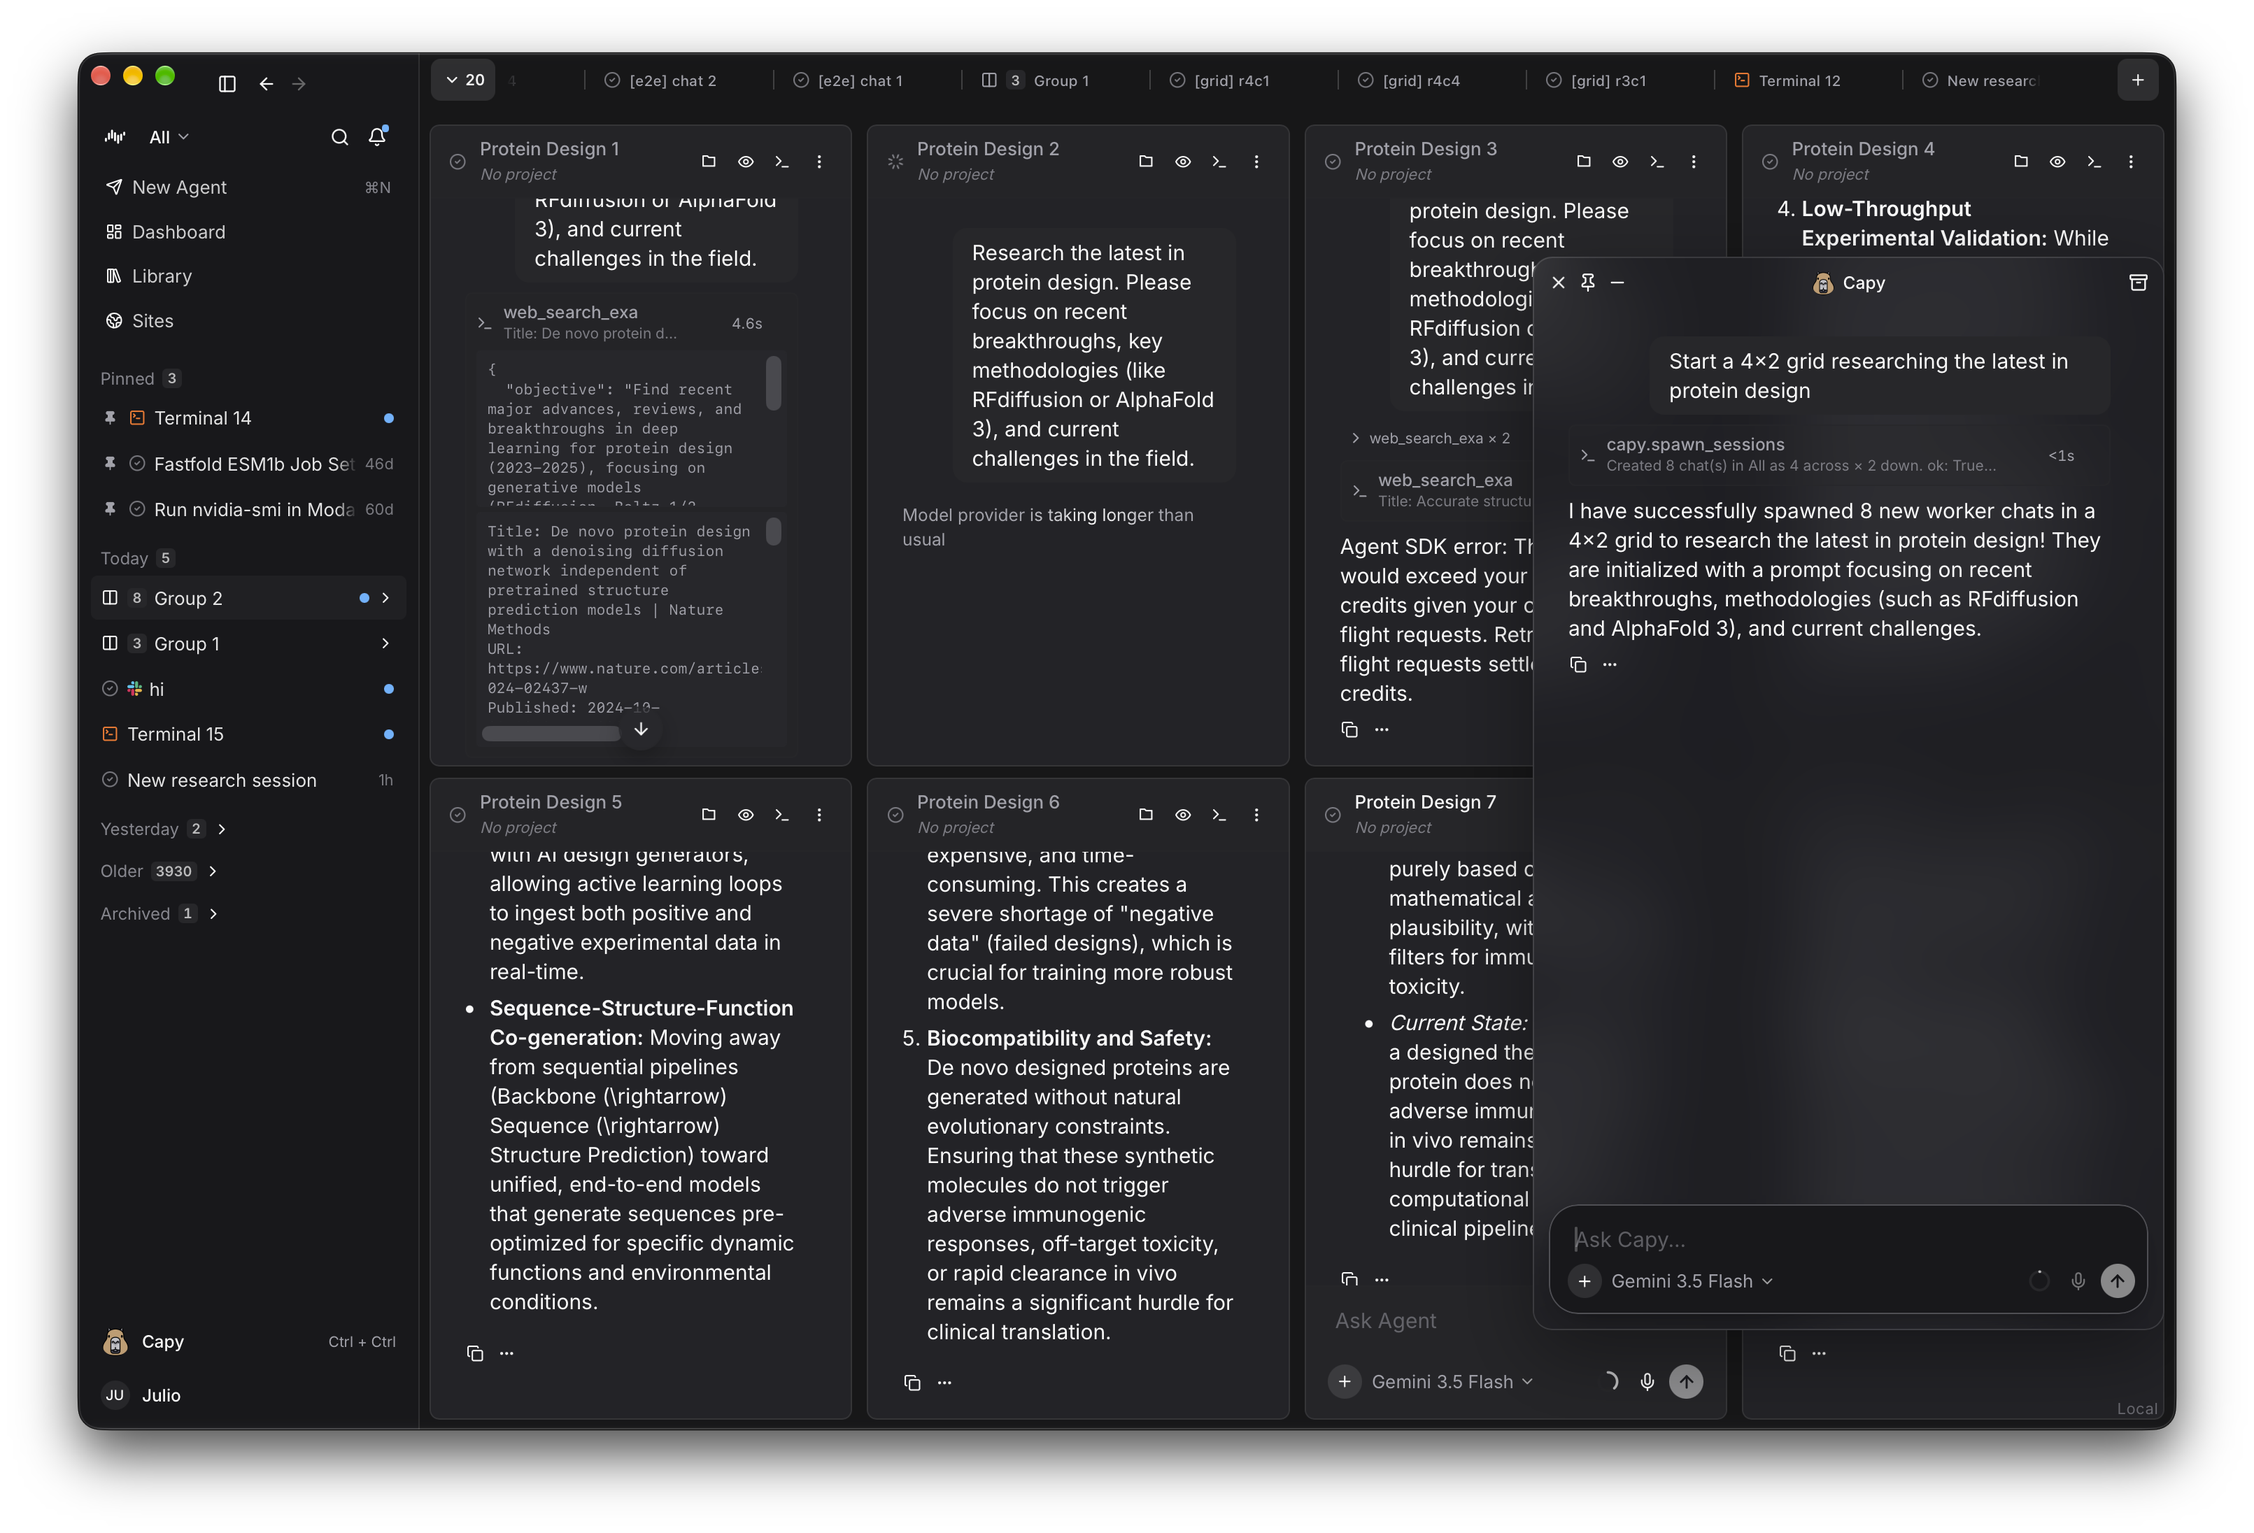
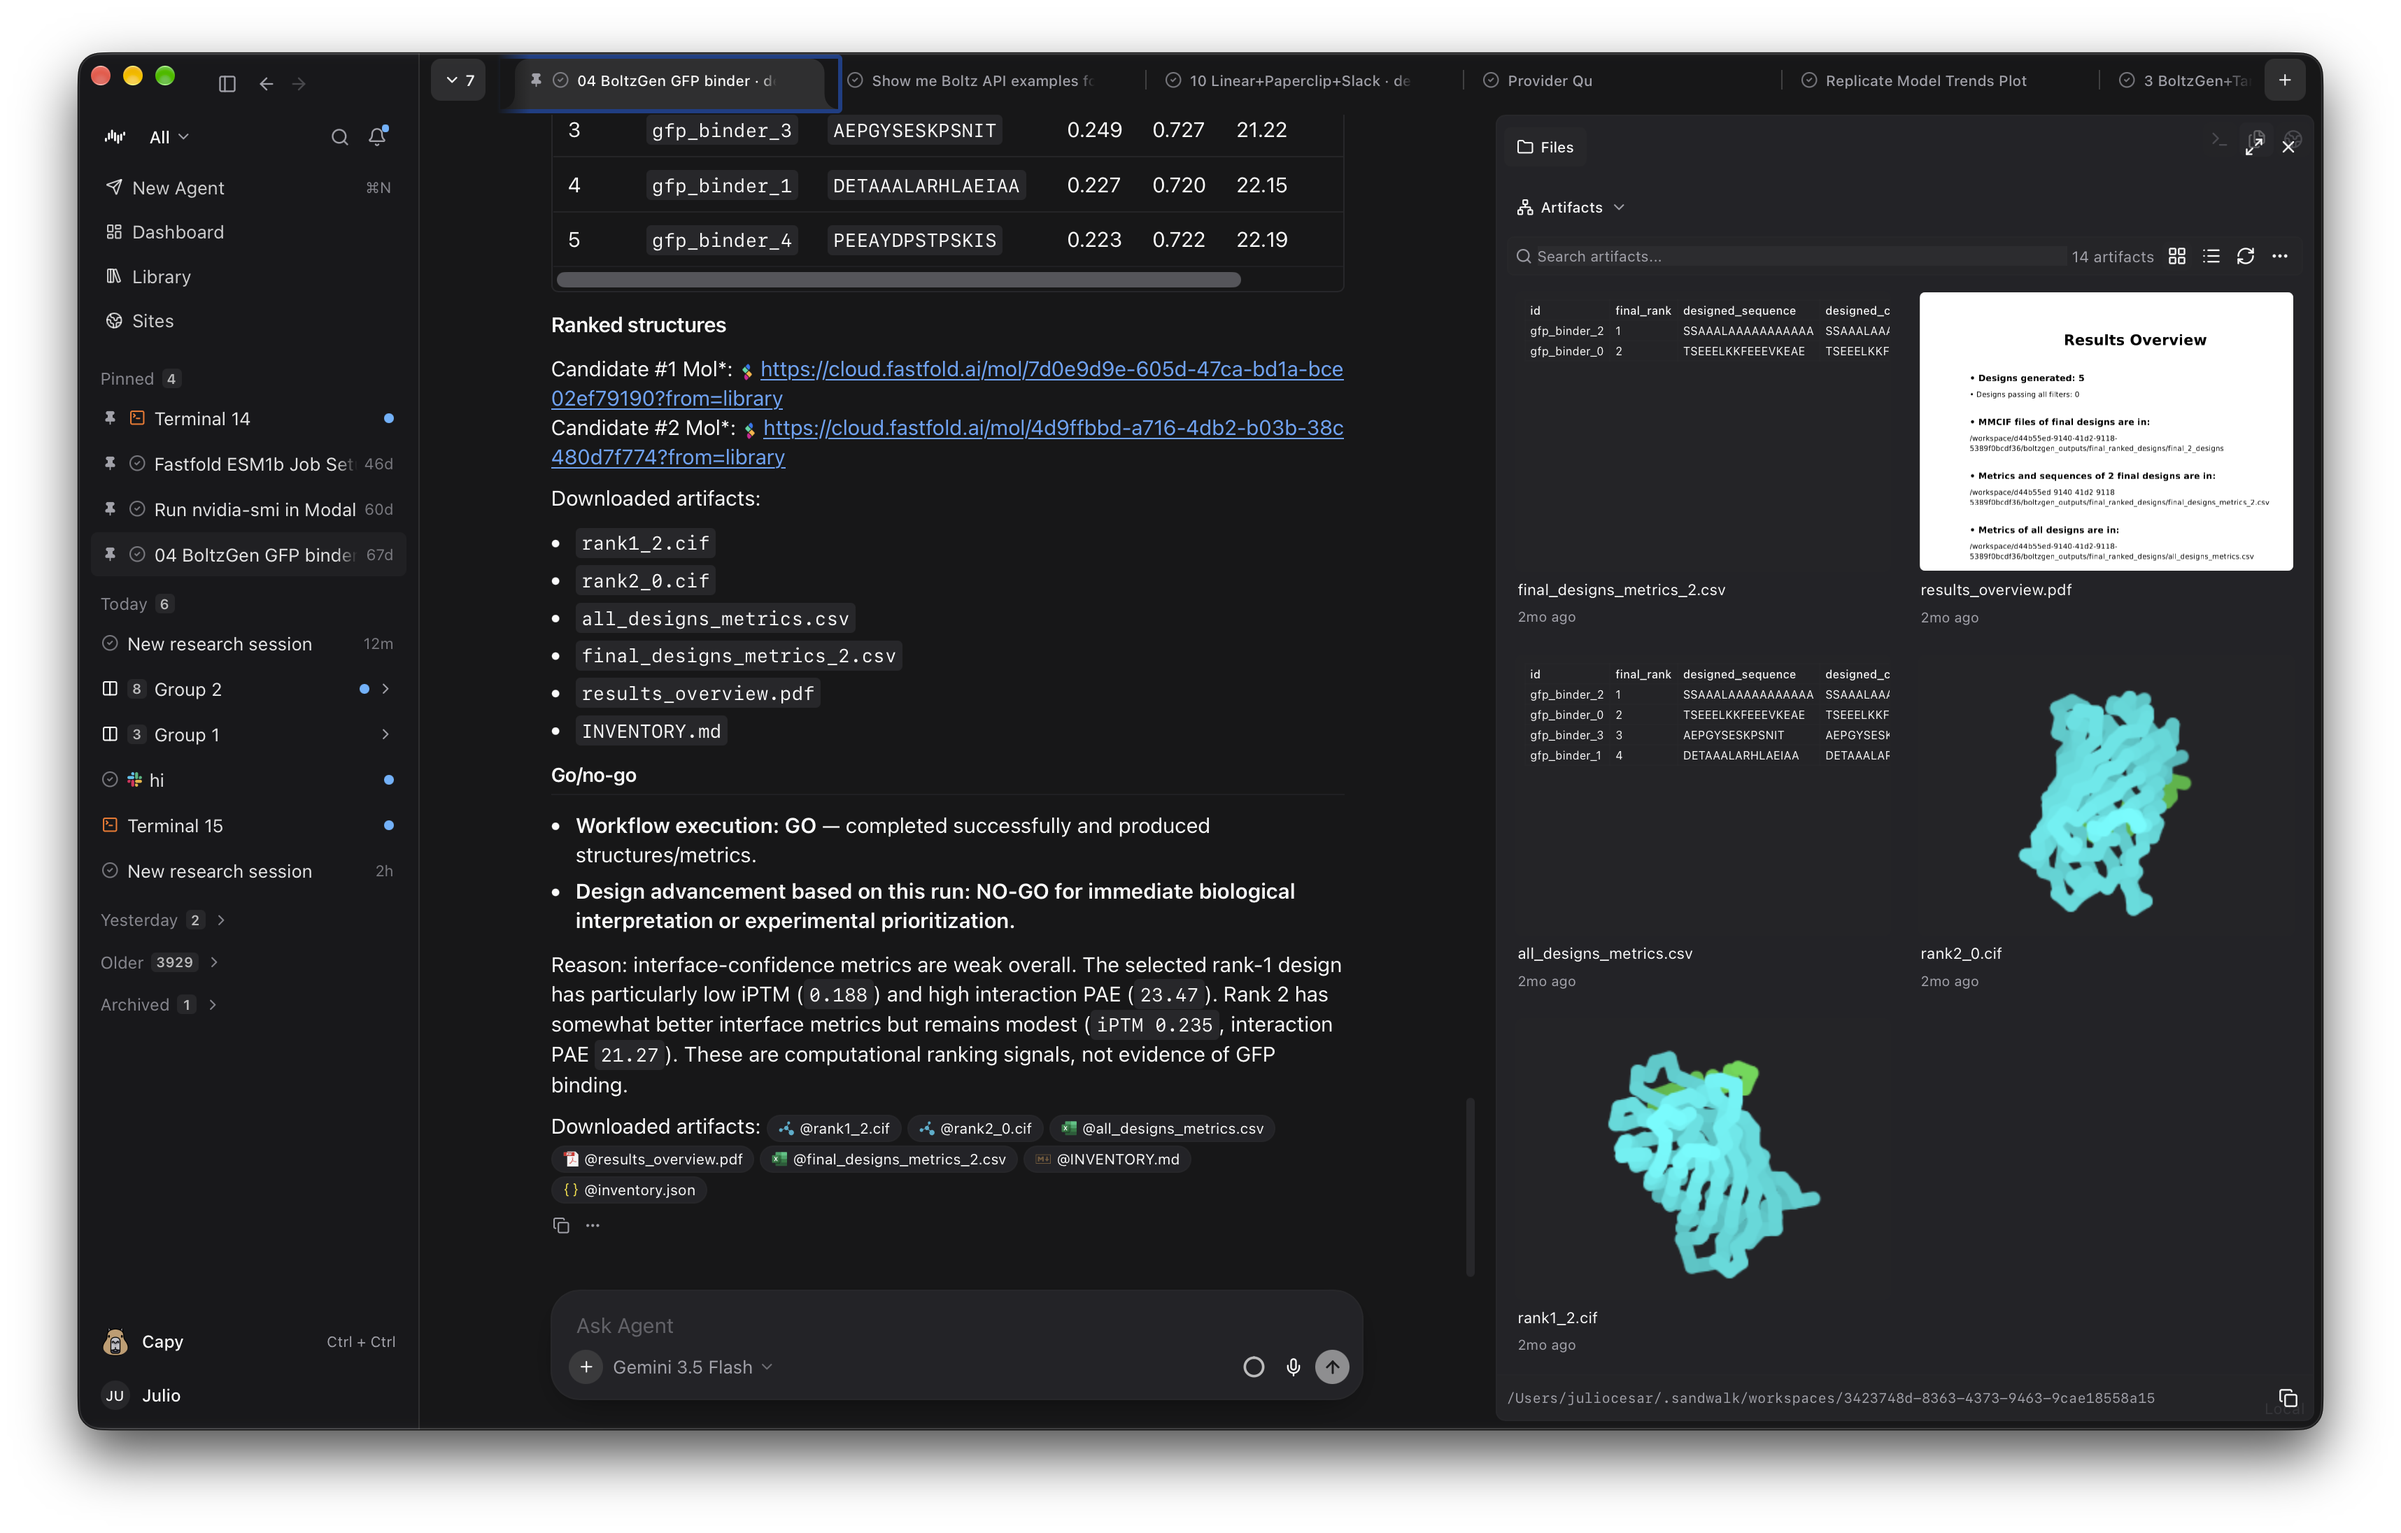
docs: caption each README screenshot from what it shows
The 4x2 grid was filed under Structures and the binder run under a duplicate name. Every section now describes its own image.

diff --git a/README.md b/README.md
@@ -24,12 +24,6 @@
 
 > Sandwalk is an open, self-hosted agent you run on your own compute. Direct it toward hard scientific research, or any ambitious work. Chat, CLI, and the macOS app share the same sessions. Leave one running on a Mac Mini or a cluster and open it from wherever you are.
 
-The composer is the front door. One question can reach a model, a skill, an MCP server, a sandbox, and the files in the workspace — then a grid of agents can work the same problem side by side. Sandwalk is there so ambitious research is not stuck in a single chat.
-
-<p align="center">
-  <img alt="The Sandwalk composer: model, plan, skills, and sandbox on one pane" src="images/composer.png">
-</p>
-
 ## Get started
 
 Download the native Sandwalk app for your operating system:
@@ -50,10 +44,18 @@ curl -fsSL https://sandwalk.sh/install | bash
 
 ### Connect
 
-Launch Sandwalk from Applications. **Connect locally** uses the agent on this Mac. **Open remote** reaches one already running on another machine, by LAN scan or a pasted URL. Recent servers stay in the list.
+The first window asks where the agent runs. **Connect locally** uses this Mac. **Open remote** finds a Sandwalk server on the LAN or takes a pasted URL. Under that, Recent lists servers you have opened before — the MacBook, a Mac mini on `192.168.2.178`, a Linux box called `ai-server` — so getting back onto a machine is one click.
 
 <p align="center">
-  <img alt="Sandwalk welcome: connect locally or open a remote server" src="images/welcome.png">
+  <img alt="Welcome window: Connect locally, Open remote, and a list of recent servers" src="images/welcome.png">
+</p>
+
+### New agent
+
+A fresh agent is one composer on an empty pane. The project scope sits above it (here, All), the model is in the bar (GPT-6 Astra), and three chips wait underneath: **Plan** (Shift-Tab), **Skills**, and **Run in sandbox**. Type and send; the pane fills with the transcript.
+
+<p align="center">
+  <img alt="New agent: an empty pane with the composer, model picker, and Plan, Skills, and sandbox chips" src="images/new-agent.png">
 </p>
 
 ```bash
@@ -68,90 +70,90 @@ Agents run on your machine or in the cloud. Chat, CLI, and the Mac app share one
 
 ### Capy
 
-Capy is the overlay agent. It is not a row in the sidebar. Open it from the bottom of the sidebar, or press **Ctrl + Ctrl**. It starts chats, opens splits, and can reach Bench, skills, and MCP servers while a normal session stays on screen behind it.
+Capy is a floating panel over whatever session is open. In this shot the chat behind it just ran `nvidia-smi` in a Modal sandbox and printed a Tesla T4 table. Capy sits on top with its own model (DeepSeek V4 Flash) and four starter prompts: start a 4×2 research grid, run doctor, list bench suites, show the last bench results. Open it from the bottom of the sidebar or with **Ctrl + Ctrl**.
 
 <p align="center">
-  <img alt="Capy overlay in front of an agent session" src="images/capy.png">
+  <img alt="Capy panel floating over a chat that ran nvidia-smi in a Modal sandbox" src="images/capy.png">
 </p>
 
 ### Grid
 
-A group is a real grid, not a stack of tabs. Capy can open one for you — for example a 4×2 of chats each researching a slice of protein design — and every cell keeps its own composer, model, and stream. **⌘D** splits right, **⇧⌘D** splits down.
+Ask Capy for a grid and it spawns the chats and lays them out. Here it was told to start a 4×2 grid on the latest in protein design. The panel on the right shows the `capy.spawn_sessions` call and its reply: eight worker chats, four across by two down, each seeded with the same brief. Every cell is a full session with its own stream and composer; `Protein Design 2` is mid-search while others are already summarizing RFdiffusion, AlphaFold 3, and validation bottlenecks.
+
+<p align="center">
+  <img alt="Capy spawned a 4 by 2 grid of chats, each researching protein design" src="images/grid.png">
+</p>
 
 ### Plan mode
 
-Plan mode drafts before it edits. The Plan chip (Shift-Tab) switches the composer. The agent writes a plan with todos, then a Mermaid flowchart of the workflow sits in the file pane next to the chat. **Build** runs that plan.
+With the gold **Plan** chip on, the agent writes a plan before it does anything. The user asked for a small-molecule screening campaign in Boltz. On the left the chat shows the plan card, a to-do, and the agent asking which target and library to use. On the right the file pane holds `boltz_screening_campaign.md` with the step list and a Mermaid flowchart from User Query down to Done. **Build** at the top right runs the plan.
 
 <p align="center">
-  <img alt="Plan mode with a Boltz screening plan and its flowchart" src="images/plan-mode.png">
+  <img alt="Plan mode: a Boltz screening plan on the left, its markdown and Mermaid flowchart on the right with a Build button" src="images/plan-mode.png">
 </p>
 
 ### Skills and MCPs
 
-The **+** menu is how you attach what the turn can use: Agent or Plan, files, skills, MCP servers, a specialist, or a sandbox. Skills install from GitHub or [skills.sh](https://skills.sh). MCP config is `~/.sandwalk/mcp.json`.
+The **+** button opens one menu for everything a turn can use. Top rows switch between **Agent** and **Plan**. Below that: Files, Skills, MCP, Specialist, Sandbox. Skills is open here, and the flyout lists what is installed — boltz, convert-documents-to-markdown, diagrams_mermaid, fold, md_openmm_calvados. Pick one and it rides along with the message. Skills install from GitHub or [skills.sh](https://skills.sh); MCP config is `~/.sandwalk/mcp.json`.
 
 <p align="center">
-  <img alt="Composer plus menu with the skills list open" src="images/skills.png">
+  <img alt="The plus menu with Skills selected and the installed skills flyout open" src="images/skills.png">
 </p>
 
 ### CLI
 
-`sandwalk` is the same product in a terminal. `/help` lists the pickers: tools, datasets, skills, sandbox, specialist, models, and effort. `sandwalk serve` is the local API the Mac app talks to.
+The same agent runs in a terminal, including a terminal pane inside the app. The banner reports the model, 192 tools, and 307 skills. Typing `/` opens the command list: `/tools`, `/data`, `/skills`, `/skills-add`, `/specialist`, `/sandbox`, `/models`, `/effort`. The status line at the bottom shows the active model, provider, sandbox, and context use.
 
 <p align="center">
-  <img alt="Sandwalk CLI help inside a terminal pane" src="images/cli.png">
+  <img alt="Sandwalk CLI inside a terminal pane with the slash command list open" src="images/cli.png">
 </p>
 
 ### Benchmarking
 
-Bench runs question suites through real sessions. Filter by suite, status, and provider, then read the score, duration, and token use for each run. Compare models on the same suite. From the CLI: `sandwalk eval`.
+Bench runs suites through real agent sessions. The Results tab here has 128 runs, filterable by suite, status, and provider. The suite picker lists MMLU, MMLU-Pro, ARC-C, MBPP, LiveCodeBench, BixBench-Verified-50, and Bio-Capybara-full. Each row carries the model, score, duration, correct count, provider, token use, and date. **Compare** puts two runs side by side.
 
 <p align="center">
-  <img alt="Benchmarking results with scores across suites and providers" src="images/bench.png">
+  <img alt="Benchmarking results table with the suite filter open" src="images/bench.png">
 </p>
 
-### Projects and overview
+### Overview
 
-Dashboard Overview is the usage board: lifetime tokens, streaks, an activity heatmap, and which models you actually ran. Widgets can be rearranged. Projects group the chats underneath that.
+Dashboard Overview is the usage board. Big number at the top is lifetime tokens (649.4M). Cards cover the longest agent run, chat count, and streaks. The heatmap shows activity by day, with a tooltip on August 12. Lower cards track peak day, models used, messages, tokens in and out, and cache hit rate. A 30-day model chart sits at the bottom. **Add widget** rearranges the board.
 
 <p align="center">
-  <img alt="Dashboard overview with usage, activity heatmap, and model chart" src="images/overview.png">
+  <img alt="Dashboard overview: lifetime tokens, streak cards, an activity heatmap, and a models chart" src="images/overview.png">
 </p>
 
 ### Models
 
-Dashboard → Models is where provider keys live. Cloud models (OpenAI, Claude, Gemini, OpenRouter, and others) and local endpoints (Ollama, Unsloth, oMLX) show up in the composer once they connect. Keys stay on this computer.
+Dashboard → Models lists every provider in a grid with a Connected or Not set up badge. Cloud covers OpenAI, Claude, Gemini, xAI, Kimi, NVIDIA, OpenCode Zen, DeepSeek, MiniMax, Mistral, Qwen Cloud, Together AI, OpenRouter, Cerebras, Groq, Fireworks AI, and Amazon Bedrock. Local lists discovered endpoints such as Ollama, oMLX, and Unsloth, with their reachability. Keys stay on this computer, and connected providers show up in the composer picker.
 
 <p align="center">
-  <img alt="Models settings with connected cloud providers and local endpoints" src="images/models.png">
+  <img alt="Models settings: cloud providers with Connected badges and local endpoints below" src="images/models.png">
 </p>
 
 ### Files beside the chat
 
-The right pane is the workspace for the session: files the agent wrote, a preview, and artifacts. A structure, a metrics table, and the chat that produced them stay open together.
+The right pane is the session workspace. This chat ran a binder design and the agent wrote a Go/No-Go assessment with iPTM, pTM, and PAE in a table. On the right the Artifacts view shows what it produced: `workflow.yml`, `gfp_binder.yaml`, a rendered `1ema.cif` structure, a PowerPoint, and a CSV of lysozyme variants. The chat and its files stay open together.
 
 <p align="center">
-  <img alt="Chat with a protein structure and artifact files open beside it" src="images/artifacts.png">
+  <img alt="Binder design chat with its metrics table, and the Artifacts pane showing the files it produced" src="images/artifacts.png">
 </p>
 
 ### Plots
 
-Figures render in that same pane. A line chart, a sampling control, and the prompt that asked for it sit next to the transcript instead of in a separate viewer.
+A published page renders in that same pane. The user asked for the most-referenced open-weight model on arXiv since 2024, using the Paperclip MCP, with a line plot of the top five. The chat on the left shows the tool calls and the Result; the right side is the live page: a monthly line chart for Qwen, Llama, Gemma, GLM, and DeepSeek, with a sampling control and a family comparison table below.
 
 <p align="center">
-  <img alt="Research chat with a monthly evidence line chart beside the transcript" src="images/preview.png">
+  <img alt="Research chat on the left and the published model trends page with its line chart on the right" src="images/preview.png">
 </p>
 
 ### Structures
 
-CIF and PDB from a design run open as 3D in the artifact list. Ranked candidates, metrics, and the Go / No-Go note stay in the chat on the left.
+A BoltzGen GFP binder run. The chat ranks the designed sequences and links each candidate to its structure, then gives a Go/no-go: the workflow completed, but interface confidence is too weak for immediate biological interpretation. On the right the Artifacts pane renders `rank1_2.cif` and `rank2_0.cif` as 3D structures next to the metrics CSVs and a results overview PDF.
 
 <p align="center">
-  <img alt="BoltzGen binder run with ranked structures rendered beside the chat" src="images/structures.png">
-</p>
-
-<p align="center">
-  <img alt="Ranked binder structures and a Go or No-Go note beside the files pane" src="images/binder.png">
+  <img alt="BoltzGen binder chat with ranked candidates, and two rendered CIF structures in the Artifacts pane" src="images/structures.png">
 </p>
 
 ### Science toolkit
